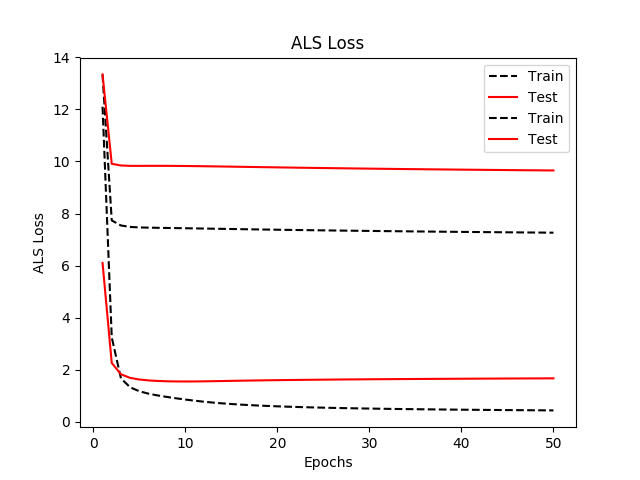
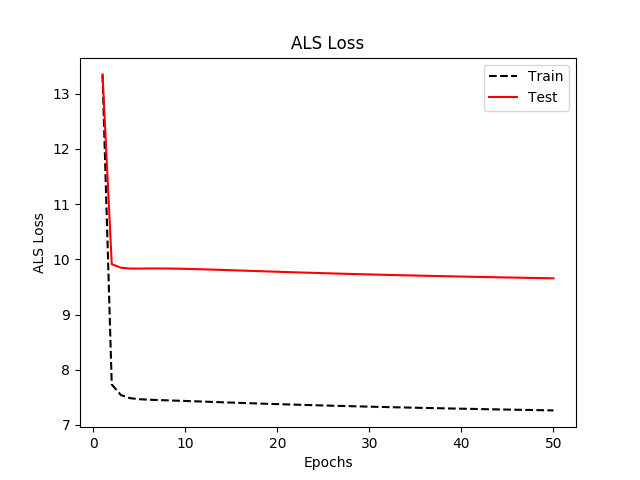
Fix plot

diff --git a/mf/make_plot.py b/mf/make_plot.py
@@ -11,6 +11,7 @@ als_test_loss = joblib.load('mf_als_test_loss.pkl')
 epochs = list(range(1, 51))
 
 
+plt.figure()
 plt.plot(epochs, sgd_train_loss, 'k--', label='Train')
 plt.plot(epochs, sgd_test_loss, 'r-', label='Test')
 plt.title('SGD Loss')
@@ -19,6 +20,7 @@ plt.ylabel('SGD Loss')
 plt.legend(loc='upper right')
 plt.savefig('sgd_loss.png')
 
+plt.figure()
 plt.plot(epochs, als_train_loss, 'k--', label='Train')
 plt.plot(epochs, als_test_loss, 'r-', label='Test')
 plt.title('ALS Loss')
@@ -27,6 +29,7 @@ plt.ylabel('ALS Loss')
 plt.legend(loc='upper right')
 plt.savefig('als_loss.png')
 
+plt.figure()
 plt.plot(epochs, sgd_train_loss, 'k--', label='SGD')
 plt.plot(epochs, als_train_loss, 'r-', label='ALS')
 plt.title('Train Loss')
@@ -35,6 +38,7 @@ plt.ylabel('Train Loss')
 plt.legend(loc='upper right')
 plt.savefig('train_loss.png')
 
+plt.figure()
 plt.plot(epochs, sgd_test_loss, 'k--', label='SGD')
 plt.plot(epochs, als_test_loss, 'r-', label='ALS')
 plt.title('Test Loss')
